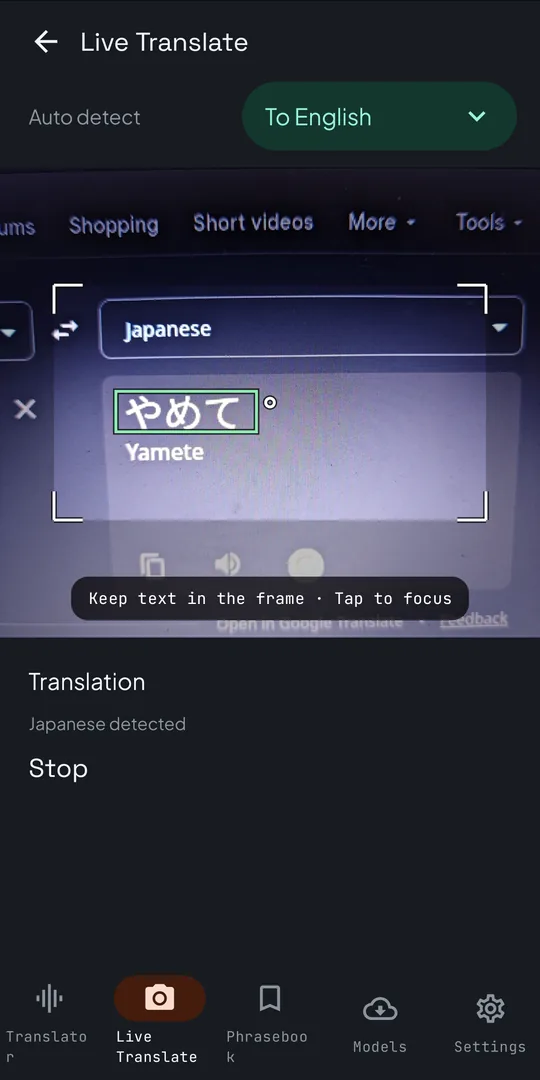
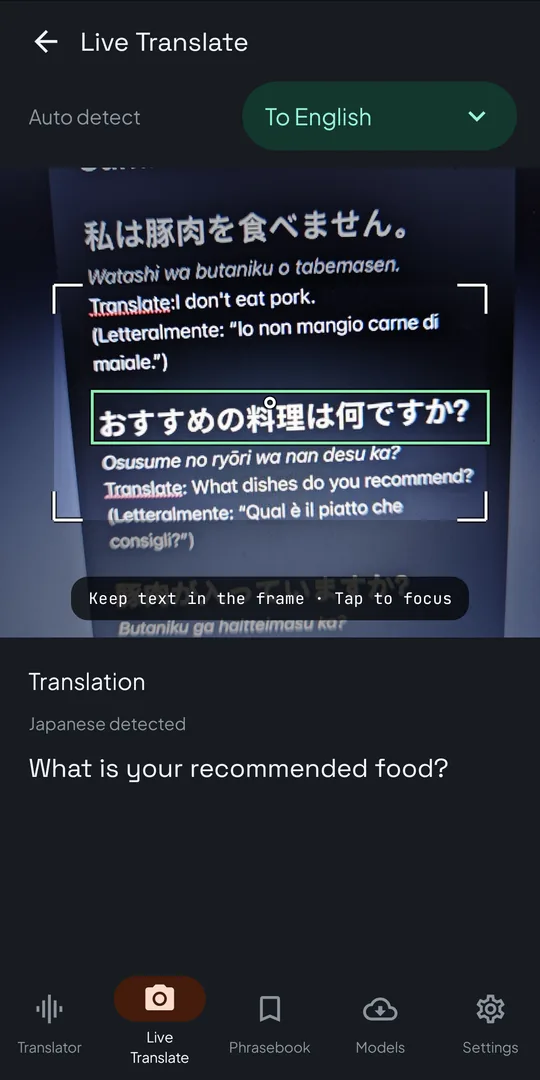
Update Parley screenshots and speech privacy wording
Retake the Parley screens with the fixed build (full card buttons,
clean tab labels) and a Live Translate shot of a real phrase page.
The privacy policy now describes Prefer Offline Speech Recognition,
which the app applies to the speech service.

diff --git a/parley/index.html b/parley/index.html
@@ -65,7 +65,7 @@
 
         <div class="phones tall" aria-label="Parley screenshots">
           <figure class="phone left"><img src="/assets/media/parley/phrasebook.webp" width="540" height="1080" alt="The travel phrasebook: an English phrase with its Spanish translation and pronunciation guide."></figure>
-          <figure class="phone right"><img src="/assets/media/parley/live-translate.webp" width="540" height="1080" alt="Live Translate reading the Japanese word yamete through the camera and translating it to Stop."></figure>
+          <figure class="phone right"><img src="/assets/media/parley/live-translate.webp" width="540" height="1080" alt="Live Translate reading a Japanese question from a page of travel phrases and translating it to What is your recommended food?"></figure>
           <figure class="phone center"><img src="/assets/media/parley/face-to-face.webp" width="540" height="1080" alt="Face-to-Face mode: a Spanish translation on top for the other person and the English original below, with You and Other Person microphone buttons."></figure>
         </div>
       </div>
@@ -81,7 +81,7 @@
     <p class="section-lede" data-reveal style="margin-top:22px">These are screens from Parley on a phone.</p>
     <div class="screens tall">
       <figure data-reveal><div class="phone"><img src="/assets/media/parley/face-to-face.webp" width="540" height="1080" alt="Face-to-Face mode with a Spanish translation for the other person and the English original for you." loading="lazy"></div><figcaption>Face to face</figcaption></figure>
-      <figure data-reveal><div class="phone"><img src="/assets/media/parley/live-translate.webp" width="540" height="1080" alt="Live Translate detecting Japanese text in the camera's focus frame and translating it." loading="lazy"></div><figcaption>Point and translate</figcaption></figure>
+      <figure data-reveal><div class="phone"><img src="/assets/media/parley/live-translate.webp" width="540" height="1080" alt="Live Translate detecting a Japanese question in the camera's focus frame and translating it to English." loading="lazy"></div><figcaption>Point and translate</figcaption></figure>
       <figure data-reveal><div class="phone"><img src="/assets/media/parley/transcript.webp" width="540" height="1080" alt="The bilingual transcript with search, starred turns, copy, and export." loading="lazy"></div><figcaption>Every word, kept</figcaption></figure>
       <figure data-reveal><div class="phone"><img src="/assets/media/parley/models.webp" width="540" height="1080" alt="The offline model manager listing downloaded languages, with 4 of 59 installed." loading="lazy"></div><figcaption>Languages to go</figcaption></figure>
     </div>

diff --git a/parley/privacy/index.html b/parley/privacy/index.html
@@ -70,7 +70,7 @@
   <p>ML Kit may contact Google's servers for model updates and fixes, and it sends Google information about how its features perform, such as your phone model, Android version, the app's name and version, a per-installation identifier and processing times. It does not send the text, speech or images Parley processes. See Google's <a href="https://developers.google.com/ml-kit/android-data-disclosure">ML Kit data disclosure</a> and the <a href="https://policies.google.com/privacy">Google Privacy Policy</a>.</p>
 
   <h2 id="speech-recognition">Speech recognition</h2>
-  <p>When you tap the microphone, Parley uses your phone's speech recognition service, which on most phones is provided by Google. Your voice goes to that service while you speak. Depending on your phone, language and settings, it may recognize speech on the device or send audio to its provider's servers, under the provider's privacy policy. Parley receives only the recognized text. It does not record or keep audio. If that service is unavailable, Parley opens your phone's own voice input screen, which works the same way.</p>
+  <p>When you tap the microphone, Parley uses your phone's speech recognition service, which on most phones is provided by Google. Your voice goes to that service while you speak. With Prefer Offline Speech Recognition turned on in Settings (the default), Parley asks the service to recognize speech on the device. If your phone has no offline speech model for that language, or the setting is off, the service may send audio to its provider's servers, under the provider's privacy policy. Parley receives only the recognized text. It does not record or keep audio. If that service is unavailable, Parley opens your phone's own voice input screen, which works the same way.</p>
 
   <h2 id="spoken-translations">Spoken translations</h2>
   <p>Parley reads translations aloud with your phone's text-to-speech engine. Parley lists only voices that are installed on your phone.</p>
